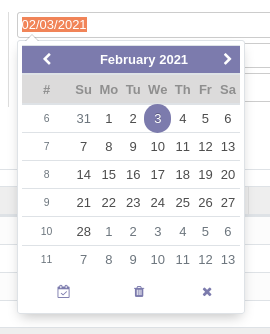
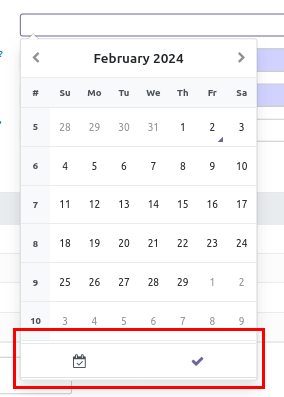
[MIG] web_widget_datepicker_fulloptions: Migration to 16.0

diff --git a/web_widget_datepicker_fulloptions/static/description/index.html b/web_widget_datepicker_fulloptions/static/description/index.html
@@ -367,15 +367,17 @@ ul.auto-toc {
 !! This file is generated by oca-gen-addon-readme !!
 !! changes will be overwritten.                   !!
 !!!!!!!!!!!!!!!!!!!!!!!!!!!!!!!!!!!!!!!!!!!!!!!!!!!!
-!! source digest: sha256:3c167f165dee6be58d095c8341832721bc688418cb356dfbb644665fd8ed6a90
+!! source digest: sha256:5cc5388c1796a804d92121313d4d48a9080f3173acf9dbafe6b2da73f9ae2241
 !!!!!!!!!!!!!!!!!!!!!!!!!!!!!!!!!!!!!!!!!!!!!!!!!!!! -->
-<p><a class="reference external image-reference" href="https://odoo-community.org/page/development-status"><img alt="Beta" src="https://img.shields.io/badge/maturity-Beta-yellow.png" /></a> <a class="reference external image-reference" href="http://www.gnu.org/licenses/agpl-3.0-standalone.html"><img alt="License: AGPL-3" src="https://img.shields.io/badge/licence-AGPL--3-blue.png" /></a> <a class="reference external image-reference" href="https://github.com/OCA/web/tree/14.0/web_widget_datepicker_fulloptions"><img alt="OCA/web" src="https://img.shields.io/badge/github-OCA%2Fweb-lightgray.png?logo=github" /></a> <a class="reference external image-reference" href="https://translation.odoo-community.org/projects/web-14-0/web-14-0-web_widget_datepicker_fulloptions"><img alt="Translate me on Weblate" src="https://img.shields.io/badge/weblate-Translate%20me-F47D42.png" /></a> <a class="reference external image-reference" href="https://runboat.odoo-community.org/builds?repo=OCA/web&amp;target_branch=14.0"><img alt="Try me on Runboat" src="https://img.shields.io/badge/runboat-Try%20me-875A7B.png" /></a></p>
+<p><a class="reference external image-reference" href="https://odoo-community.org/page/development-status"><img alt="Beta" src="https://img.shields.io/badge/maturity-Beta-yellow.png" /></a> <a class="reference external image-reference" href="http://www.gnu.org/licenses/agpl-3.0-standalone.html"><img alt="License: AGPL-3" src="https://img.shields.io/badge/licence-AGPL--3-blue.png" /></a> <a class="reference external image-reference" href="https://github.com/OCA/web/tree/16.0/web_widget_datepicker_fulloptions"><img alt="OCA/web" src="https://img.shields.io/badge/github-OCA%2Fweb-lightgray.png?logo=github" /></a> <a class="reference external image-reference" href="https://translation.odoo-community.org/projects/web-16-0/web-16-0-web_widget_datepicker_fulloptions"><img alt="Translate me on Weblate" src="https://img.shields.io/badge/weblate-Translate%20me-F47D42.png" /></a> <a class="reference external image-reference" href="https://runboat.odoo-community.org/builds?repo=OCA/web&amp;target_branch=16.0"><img alt="Try me on Runboat" src="https://img.shields.io/badge/runboat-Try%20me-875A7B.png" /></a></p>
 <p>This module enables full options in datepicker used in date fields :
 - Choose today’s date in one click
-- Three buttons enabled : show today, clear field, close datepicker</p>
+- Two buttons enabled : choosing today and closing datepicker with selected date</p>
 <div class="figure">
-<img alt="https://raw.githubusercontent.com/OCA/web/14.0/web_widget_datepicker_fulloptions/static/description/change.png" src="https://raw.githubusercontent.com/OCA/web/14.0/web_widget_datepicker_fulloptions/static/description/change.png" />
+<img alt="https://raw.githubusercontent.com/OCA/web/16.0/web_widget_datepicker_fulloptions/static/description/change.png" src="https://raw.githubusercontent.com/OCA/web/16.0/web_widget_datepicker_fulloptions/static/description/change.png" />
 </div>
+<p>Clearing field doesn’t work because there is a left ‘todo’ in Odoo core code
+here : <a class="reference external" href="https://github.com/odoo/odoo/blob/16.0/addons/web/static/lib/tempusdominus/tempusdominus.js#L1341">https://github.com/odoo/odoo/blob/16.0/addons/web/static/lib/tempusdominus/tempusdominus.js#L1341</a></p>
 <p><strong>Table of contents</strong></p>
 <div class="contents local topic" id="contents">
 <ul class="simple">
@@ -393,7 +395,7 @@ ul.auto-toc {
 <p>Bugs are tracked on <a class="reference external" href="https://github.com/OCA/web/issues">GitHub Issues</a>.
 In case of trouble, please check there if your issue has already been reported.
 If you spotted it first, help us to smash it by providing a detailed and welcomed
-<a class="reference external" href="https://github.com/OCA/web/issues/new?body=module:%20web_widget_datepicker_fulloptions%0Aversion:%2014.0%0A%0A**Steps%20to%20reproduce**%0A-%20...%0A%0A**Current%20behavior**%0A%0A**Expected%20behavior**">feedback</a>.</p>
+<a class="reference external" href="https://github.com/OCA/web/issues/new?body=module:%20web_widget_datepicker_fulloptions%0Aversion:%2016.0%0A%0A**Steps%20to%20reproduce**%0A-%20...%0A%0A**Current%20behavior**%0A%0A**Expected%20behavior**">feedback</a>.</p>
 <p>Do not contact contributors directly about support or help with technical issues.</p>
 </div>
 <div class="section" id="credits">
@@ -420,7 +422,7 @@ If you spotted it first, help us to smash it by providing a detailed and welcome
 <p>OCA, or the Odoo Community Association, is a nonprofit organization whose
 mission is to support the collaborative development of Odoo features and
 promote its widespread use.</p>
-<p>This module is part of the <a class="reference external" href="https://github.com/OCA/web/tree/14.0/web_widget_datepicker_fulloptions">OCA/web</a> project on GitHub.</p>
+<p>This module is part of the <a class="reference external" href="https://github.com/OCA/web/tree/16.0/web_widget_datepicker_fulloptions">OCA/web</a> project on GitHub.</p>
 <p>You are welcome to contribute. To learn how please visit <a class="reference external" href="https://odoo-community.org/page/Contribute">https://odoo-community.org/page/Contribute</a>.</p>
 </div>
 </div>

diff --git a/web_widget_datepicker_fulloptions/static/src/js/web_widget_datepicker_fulloptions.esm.js b/web_widget_datepicker_fulloptions/static/src/js/web_widget_datepicker_fulloptions.esm.js
@@ -1,0 +1,11 @@
+/* @odoo-module */
+
+import {DatePicker} from "@web/core/datepicker/datepicker";
+
+Object.assign(DatePicker.defaultProps, {
+    buttons: {
+        showClear: true,
+        showClose: true,
+        showToday: true,
+    },
+});

diff --git a/web_widget_datepicker_fulloptions/__manifest__.py b/web_widget_datepicker_fulloptions/__manifest__.py
@@ -2,7 +2,7 @@
 # License AGPL-3.0 or later (https://www.gnu.org/licenses/agpl).
 {
     "name": "Web Widget DatePicker Full Options",
-    "version": "14.0.1.0.0",
+    "version": "16.0.1.0.0",
     "author": "GRAP, " "Odoo Community Association (OCA)",
     "license": "AGPL-3",
     "category": "Web",
@@ -11,7 +11,10 @@
     "depends": [
         "web",
     ],
-    "data": [
-        "views/web_widget_datepicker_fulloptions_assets.xml",
-    ],
+    "assets": {
+        "web.assets_backend": [
+            "web_widget_datepicker_fulloptions/static/src/js/"
+            "web_widget_datepicker_fulloptions.esm.js"
+        ],
+    },
 }

diff --git a/web_widget_datepicker_fulloptions/README.rst b/web_widget_datepicker_fulloptions/README.rst
@@ -7,7 +7,7 @@ Web Widget DatePicker Full Options
    !! This file is generated by oca-gen-addon-readme !!
    !! changes will be overwritten.                   !!
    !!!!!!!!!!!!!!!!!!!!!!!!!!!!!!!!!!!!!!!!!!!!!!!!!!!!
-   !! source digest: sha256:3c167f165dee6be58d095c8341832721bc688418cb356dfbb644665fd8ed6a90
+   !! source digest: sha256:5cc5388c1796a804d92121313d4d48a9080f3173acf9dbafe6b2da73f9ae2241
    !!!!!!!!!!!!!!!!!!!!!!!!!!!!!!!!!!!!!!!!!!!!!!!!!!!!
 
 .. |badge1| image:: https://img.shields.io/badge/maturity-Beta-yellow.png
@@ -17,22 +17,25 @@ Web Widget DatePicker Full Options
     :target: http://www.gnu.org/licenses/agpl-3.0-standalone.html
     :alt: License: AGPL-3
 .. |badge3| image:: https://img.shields.io/badge/github-OCA%2Fweb-lightgray.png?logo=github
-    :target: https://github.com/OCA/web/tree/14.0/web_widget_datepicker_fulloptions
+    :target: https://github.com/OCA/web/tree/16.0/web_widget_datepicker_fulloptions
     :alt: OCA/web
 .. |badge4| image:: https://img.shields.io/badge/weblate-Translate%20me-F47D42.png
-    :target: https://translation.odoo-community.org/projects/web-14-0/web-14-0-web_widget_datepicker_fulloptions
+    :target: https://translation.odoo-community.org/projects/web-16-0/web-16-0-web_widget_datepicker_fulloptions
     :alt: Translate me on Weblate
 .. |badge5| image:: https://img.shields.io/badge/runboat-Try%20me-875A7B.png
-    :target: https://runboat.odoo-community.org/builds?repo=OCA/web&target_branch=14.0
+    :target: https://runboat.odoo-community.org/builds?repo=OCA/web&target_branch=16.0
     :alt: Try me on Runboat
 
 |badge1| |badge2| |badge3| |badge4| |badge5|
 
 This module enables full options in datepicker used in date fields :
 - Choose today's date in one click
-- Three buttons enabled : show today, clear field, close datepicker
+- Two buttons enabled : choosing today and closing datepicker with selected date
 
-.. figure:: https://raw.githubusercontent.com/OCA/web/14.0/web_widget_datepicker_fulloptions/static/description/change.png
+.. figure:: https://raw.githubusercontent.com/OCA/web/16.0/web_widget_datepicker_fulloptions/static/description/change.png
+
+Clearing field doesn't work because there is a left 'todo' in Odoo core code
+here : https://github.com/odoo/odoo/blob/16.0/addons/web/static/lib/tempusdominus/tempusdominus.js#L1341
 
 **Table of contents**
 
@@ -45,7 +48,7 @@ Bug Tracker
 Bugs are tracked on `GitHub Issues <https://github.com/OCA/web/issues>`_.
 In case of trouble, please check there if your issue has already been reported.
 If you spotted it first, help us to smash it by providing a detailed and welcomed
-`feedback <https://github.com/OCA/web/issues/new?body=module:%20web_widget_datepicker_fulloptions%0Aversion:%2014.0%0A%0A**Steps%20to%20reproduce**%0A-%20...%0A%0A**Current%20behavior**%0A%0A**Expected%20behavior**>`_.
+`feedback <https://github.com/OCA/web/issues/new?body=module:%20web_widget_datepicker_fulloptions%0Aversion:%2016.0%0A%0A**Steps%20to%20reproduce**%0A-%20...%0A%0A**Current%20behavior**%0A%0A**Expected%20behavior**>`_.
 
 Do not contact contributors directly about support or help with technical issues.
 
@@ -77,6 +80,6 @@ OCA, or the Odoo Community Association, is a nonprofit organization whose
 mission is to support the collaborative development of Odoo features and
 promote its widespread use.
 
-This module is part of the `OCA/web <https://github.com/OCA/web/tree/14.0/web_widget_datepicker_fulloptions>`_ project on GitHub.
+This module is part of the `OCA/web <https://github.com/OCA/web/tree/16.0/web_widget_datepicker_fulloptions>`_ project on GitHub.
 
 You are welcome to contribute. To learn how please visit https://odoo-community.org/page/Contribute.

diff --git a/web_widget_datepicker_fulloptions/readme/DESCRIPTION.rst b/web_widget_datepicker_fulloptions/readme/DESCRIPTION.rst
@@ -1,5 +1,8 @@
 This module enables full options in datepicker used in date fields :
 - Choose today's date in one click
-- Three buttons enabled : show today, clear field, close datepicker
+- Two buttons enabled : choosing today and closing datepicker with selected date
 
 .. figure:: ../static/description/change.png
+
+Clearing field doesn't work because there is a left 'todo' in Odoo core code
+here : https://github.com/odoo/odoo/blob/16.0/addons/web/static/lib/tempusdominus/tempusdominus.js#L1341
